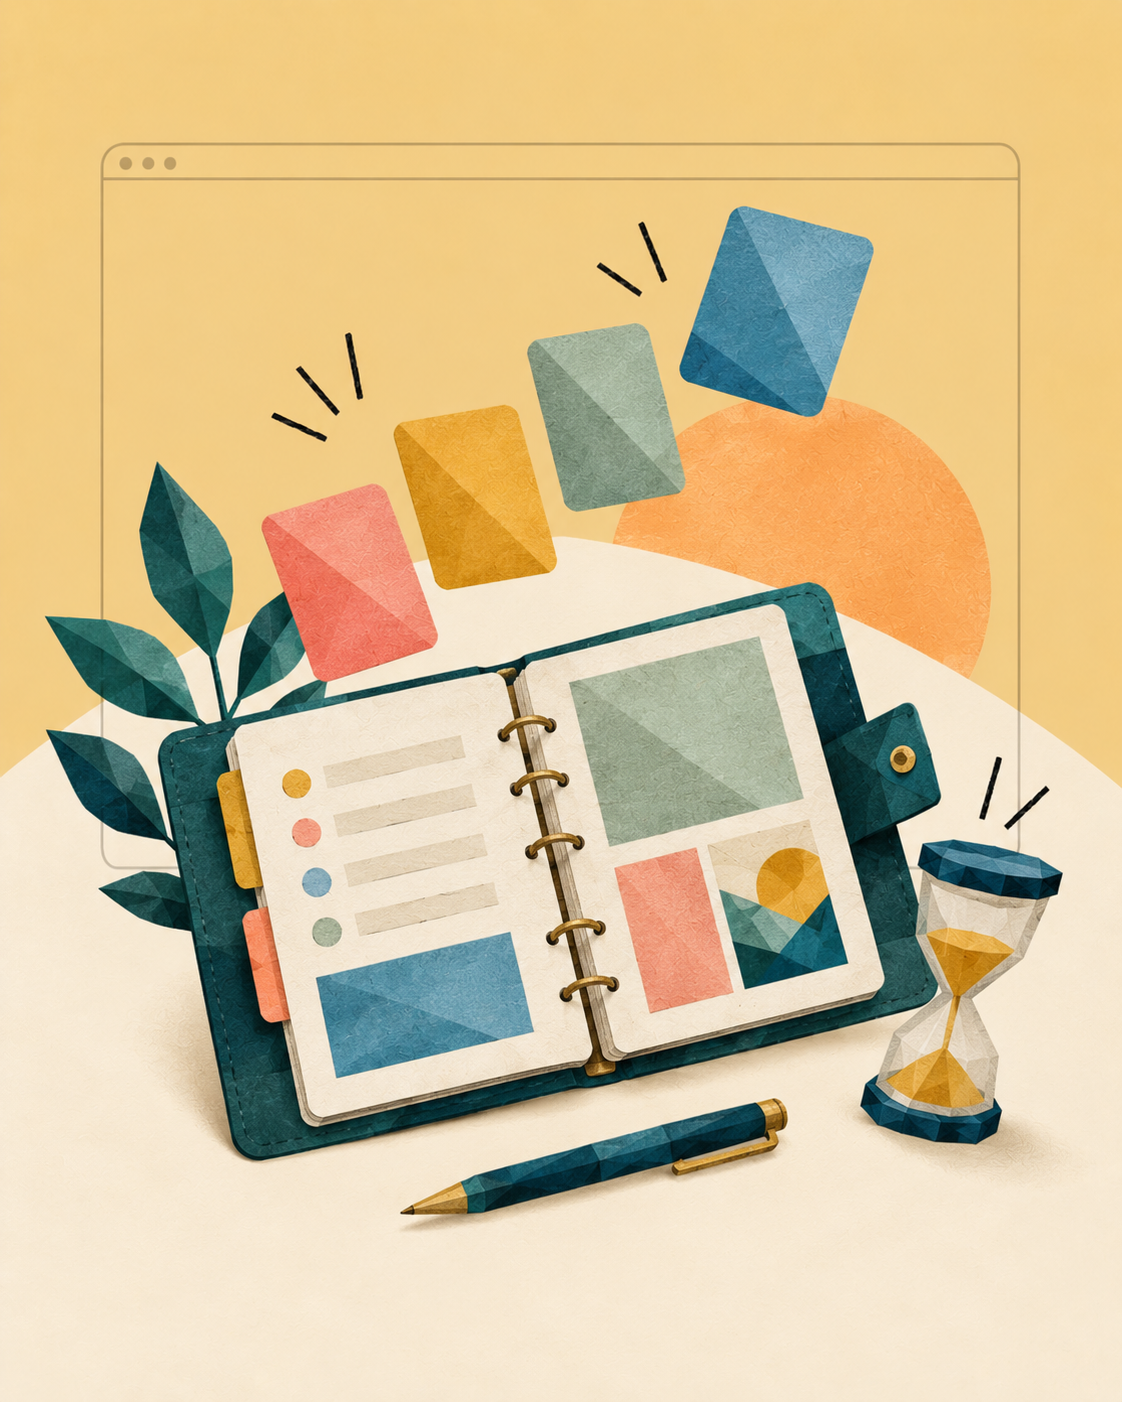
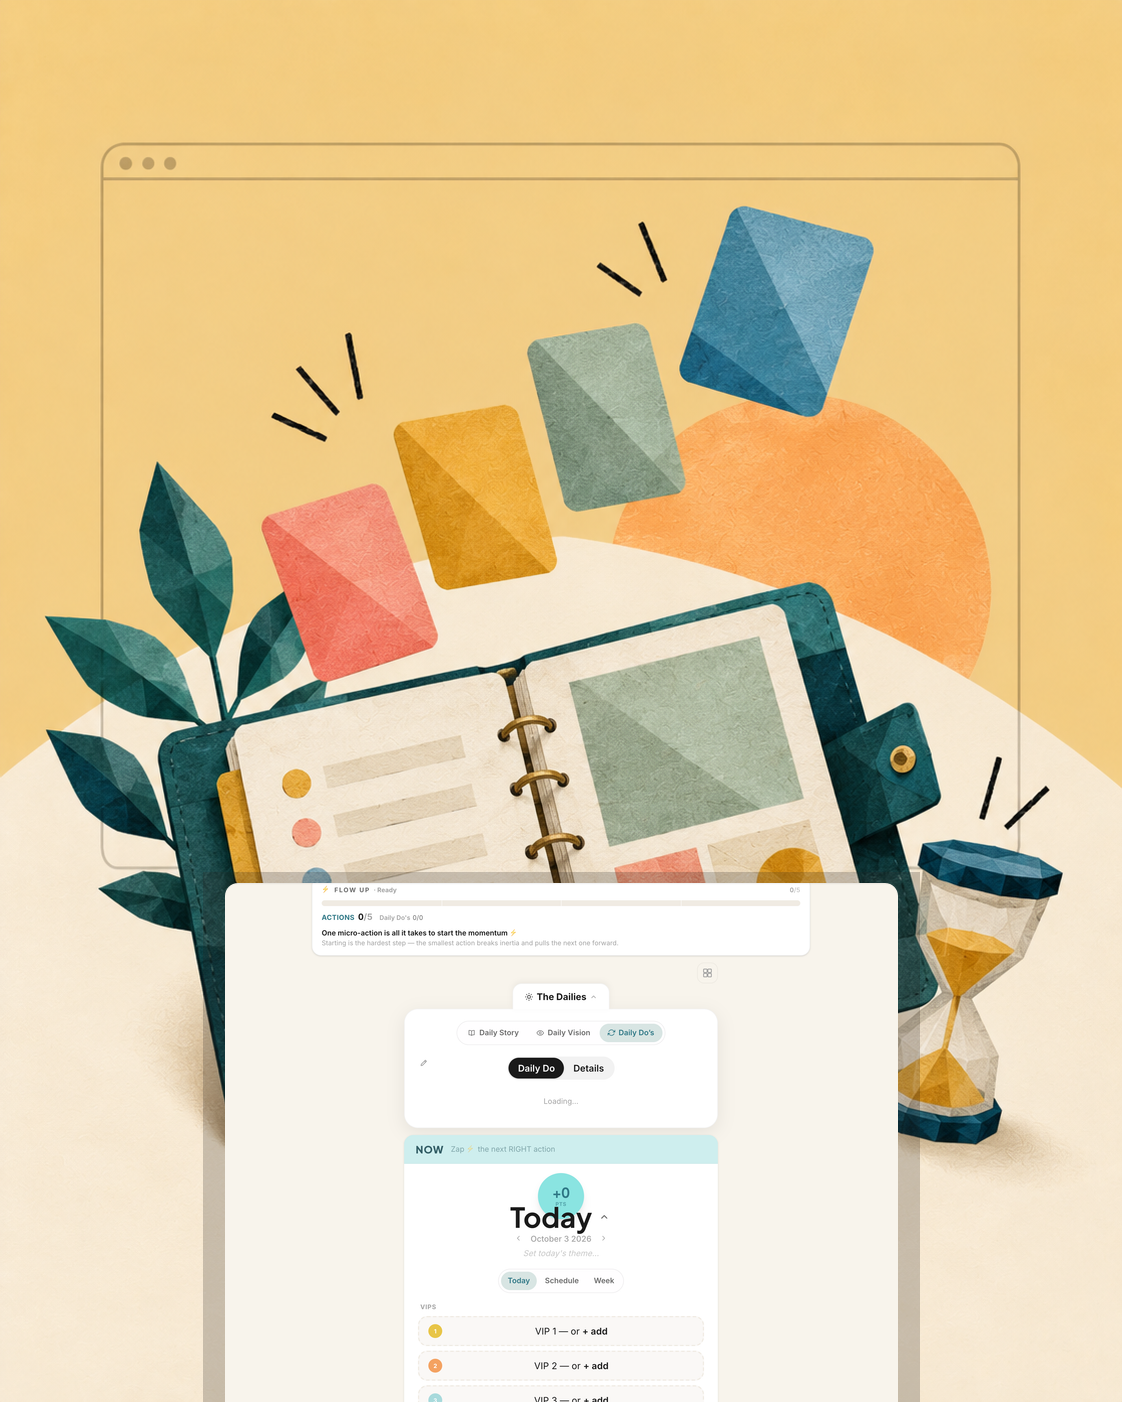
Seat real screenshots into the posters
A generated illustration, however good, is a picture of nothing. A real screen
is evidence. But a screenshot blown up full bleed loses the illustration
entirely and the grid stops looking like anyone's in particular, so the screen
sits small inside the drawn browser frame with the artwork still reading
around it.

It bleeds off the bottom on purpose. The plate crops the poster to 8:9 from
the top, so a screen anchored low gets cut mid-content: enough to show the
thing is real, not enough to say what it does. That unanswered question is the
reason to click.

Non-destructive, because it has to be repeatable. Generation now writes the
untouched illustration to <slug>-art.png and compositing always reads from
there; <slug>.png is the finished card. Without that split, running --screen
twice would stack one screenshot on the last. --no-screen rebuilds the card
from artwork alone, for captures that don't work out.

Placement is per-poster rather than one constant: --screen-width and
--screen-top. The Daily Story needed 0.60/0.63 because its hero object sits
exactly where the default put the screen, and the first attempt buried the
planner completely.

scripts/poster-v1.mjs is a frozen copy of the illustration-only version that
produced the nine posters currently live, in case this turns out to be the
wrong call.

Changed region(s): [[0.156, 0.6134, 0.8422, 1.0]]

diff --git a/scripts/poster-log/what-is-love.md b/scripts/poster-log/what-is-love.md
@@ -1,0 +1,37 @@
+# what-is-love
+
+Generated 2026-10-05T07:20:31.298Z · gpt-image-2.5-sunburst · 1024x1536 · high
+
+## Subject
+
+an open hardback book standing upright at the centre as the hero element, built from cut-paper planes, pages fanned. Arranged in an arc around and behind it, six or seven small circular portrait frames of different people, like a chorus of contributors. In the foreground, a few coins and a small schoolhouse rendered as engraved illustration, smaller, suggesting proceeds travelling from the book toward a school.
+
+## Full prompt
+
+Flat paper-collage illustration, portrait, 4:5.
+
+A single flat saturated background colour, a single colour from the project's palette, bleeding to all four
+edges. Over it, one large off-white organic shape, a soft asymmetric curve
+rising from the bottom corners like a low hill, which the composition sits on.
+
+Behind the subject, a faint thin-line browser window outline: a rounded
+rectangle with a narrow title bar and three small circles at its top left,
+drawn in a single hairline weight, low contrast, clearly background furniture
+rather than part of the subject.
+
+The subject is centred and built from cut-paper shapes with visible paper
+grain and fibre texture, faceted into flat planes of colour, with soft
+contact shadows underneath so the pieces read as physical paper. Mix in one or
+two elements rendered as detailed black-and-white engraved or etched
+illustration, at a smaller scale, set into the composition.
+
+Scatter a few small hand-drawn black marks around the subject: short straight
+strokes in groups of three, small zigzags, short wavy lines. Sparse, never
+crowding the subject.
+
+The composition resolves in the top 80% of the frame. The bottom fifth is
+empty ground, no elements there.
+
+No text, no lettering, no words, no numbers anywhere in the image.
+
+Subject: an open hardback book standing upright at the centre as the hero element, built from cut-paper planes, pages fanned. Arranged in an arc around and behind it, six or seven small circular portrait frames of different people, like a chorus of contributors. In the foreground, a few coins and a small schoolhouse rendered as engraved illustration, smaller, suggesting proceeds travelling from the book toward a school.
